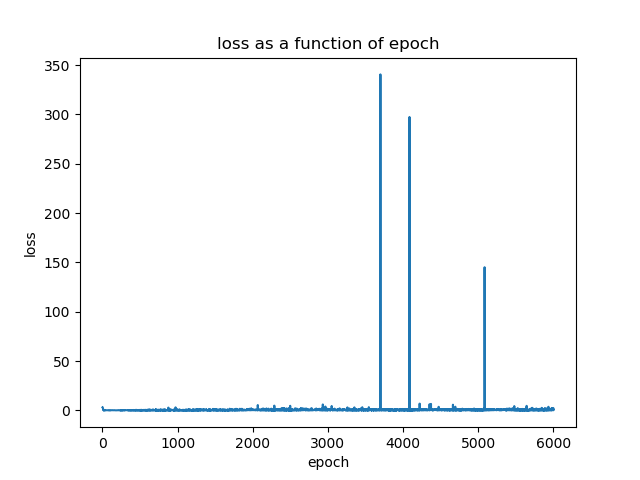
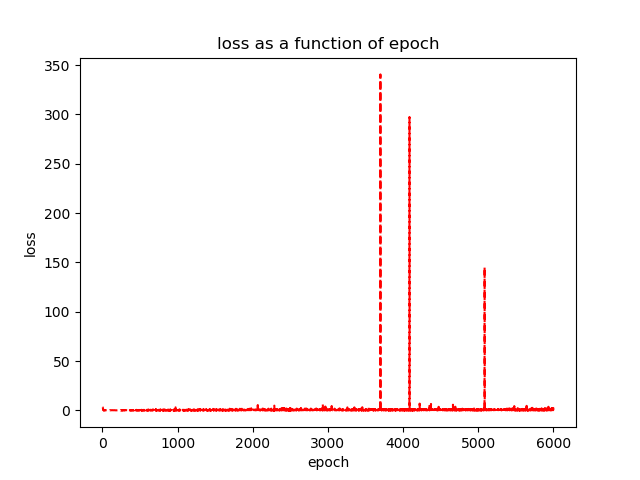
Checking

Changed region(s): [[0.1562, 0.25, 0.875, 0.875]]

diff --git a/plot.py b/plot.py
@@ -21,7 +21,7 @@ for data in output:
 plt.title("loss as a function of epoch")
 plt.xlabel("epoch")
 plt.ylabel("loss")
-plt.plot(epoch,output_data)
+plt.plot(epoch,output_data,"r--")
 plt.savefig("loss_as_whole")
 print(output_data)
     
